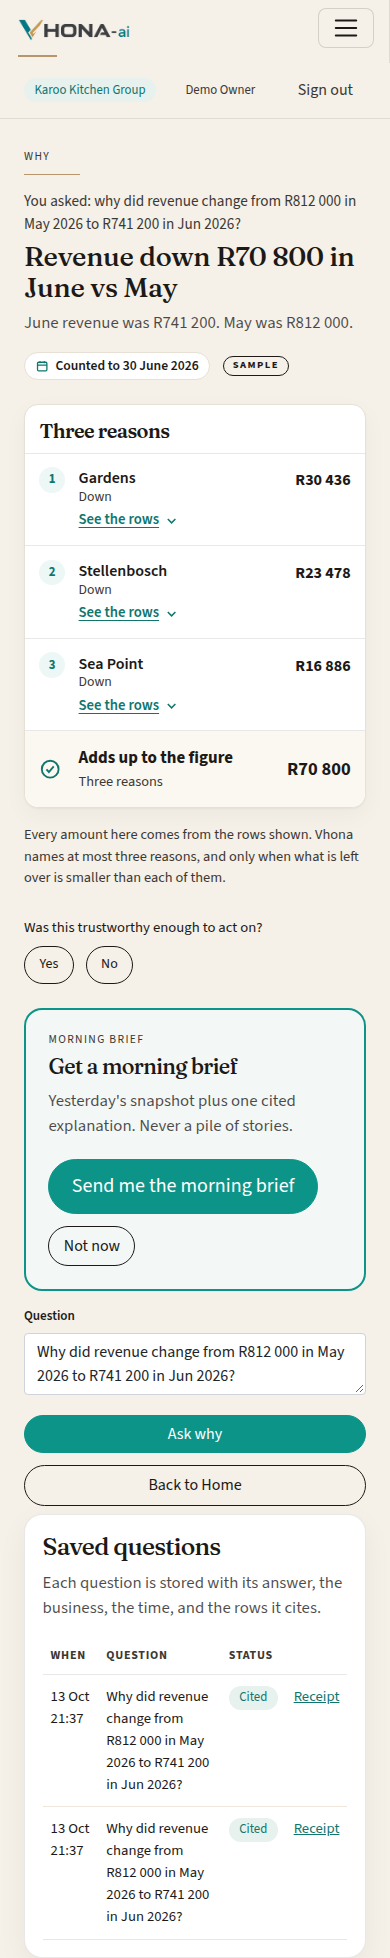
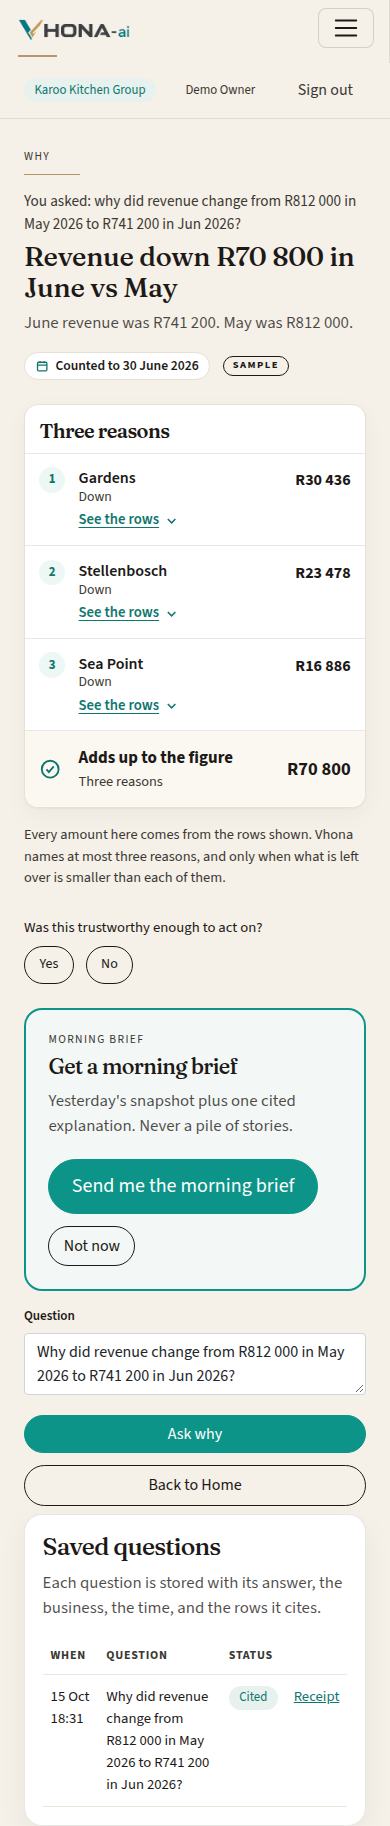
Remove the In the app screenshots from the demo pages.
Retake the Karoo phone Why shots so Saved questions lists the revenue question once.

diff --git a/docs/demos/axum-home/index.html b/docs/demos/axum-home/index.html
@@ -152,23 +152,6 @@
     #attentionBody td:nth-child(3) { width: 20%; white-space: nowrap; }
     #panel-overview .table-scroll table.data th:nth-child(4),
     #attentionBody td:nth-child(4) { width: 23%; white-space: nowrap; }
-    .in-app { margin-top: 2.75rem; }
-    .in-app h2 { font-size: clamp(1.8rem, 3vw, 2.4rem); margin: 0.55rem 0 0.4rem; }
-    .in-app .sub { color: var(--muted); max-width: 42rem; margin-bottom: 1.1rem; }
-    .in-app-grid { display: grid; gap: 1.25rem; }
-    .in-app figure { margin: 0; }
-    .in-app img {
-      display: block;
-      width: 100%;
-      height: auto;
-      border: 1px solid var(--line);
-      border-radius: 0.85rem;
-      background: var(--paper);
-    }
-    .in-app figcaption { color: var(--muted); font-size: 0.88rem; margin-top: 0.45rem; }
-    @media (min-width: 960px) {
-      .in-app-grid { grid-template-columns: repeat(3, minmax(0, 1fr)); align-items: start; }
-    }
   </style>
 </head>
 <body class="axum">
@@ -342,26 +325,6 @@
           <p class="also">Also in Demos: <a href="../karoo/">Karoo Kitchen</a></p>
         </div>
       </div>
-
-      <section class="in-app" id="in-the-app">
-        <p class="sample-label">Sample</p>
-        <h2 class="serif">In the app</h2>
-        <p class="sub">These screens are this sample loaded in Vhona. The customer names are made up. They show the books, not the unit forecast above. April is still open, so the cards compare March with February.</p>
-        <div class="in-app-grid">
-          <figure>
-            <img src="app-home.webp" width="1280" height="1201" alt="Sample Home screen for Axum Home. April 2026 is still open, so the cards compare March 2026 with February 2026. March revenue is R5 890 390." />
-            <figcaption>Home. March revenue R5&nbsp;890&nbsp;390, expenses R5&nbsp;705&nbsp;390, profit R185&nbsp;000, cash R3&nbsp;740&nbsp;000.</figcaption>
-          </figure>
-          <figure>
-            <img src="app-why.webp" width="1280" height="1450" alt="Sample Why screen for Axum revenue. April is still open, so the answer is counted to 31 March 2026. Revenue up R353 424 in March vs February. Northern Area R220 036, Eastern Cape R136 988, and Bloemfontein Pantry −R3 600. The customer names are made up." />
-            <figcaption>Why. Revenue up R353&nbsp;424 in March vs February, counted to 31 March 2026 because April is still open. Northern Area and Eastern Cape are up. Bloemfontein Pantry, a made up customer, is down R3&nbsp;600.</figcaption>
-          </figure>
-          <figure>
-            <img src="app-who.webp" width="1280" height="900" alt="Sample Who to call screen for Axum Home. Kimberley Cash Store is late, Gaborone Wholesale has stopped, and Bloemfontein Pantry has dropped. The customer names are made up." />
-            <figcaption>Who to call. Three made up customers: one late, one stopped, one dropped.</figcaption>
-          </figure>
-        </div>
-      </section>
     </div>
   </main>
 

diff --git a/docs/demos/karoo/index.html b/docs/demos/karoo/index.html
@@ -150,23 +150,6 @@
       .branch-row { grid-template-columns: 6rem 1fr 3.6rem; }
       .branch-row .yoy { display: none; }
     }
-    .in-app { margin-top: 2.75rem; }
-    .in-app h2 { font-size: clamp(1.8rem, 3vw, 2.4rem); margin: 0.55rem 0 0.4rem; }
-    .in-app .sub { margin-bottom: 1.1rem; }
-    .in-app-grid { display: grid; gap: 1.25rem; }
-    .in-app figure { margin: 0; }
-    .in-app img {
-      display: block;
-      width: 100%;
-      height: auto;
-      border: 1px solid var(--line);
-      border-radius: 0.85rem;
-      background: var(--paper);
-    }
-    .in-app figcaption { color: var(--muted); font-size: 0.88rem; margin-top: 0.45rem; }
-    @media (min-width: 960px) {
-      .in-app-grid { grid-template-columns: repeat(3, minmax(0, 1fr)); align-items: start; }
-    }
   </style>
 </head>
 <body>
@@ -488,26 +471,6 @@
           <p class="also">Also in Demos: <a href="../axum-home/">Axum Home</a></p>
         </div>
       </div>
-
-      <section class="in-app" id="in-the-app">
-        <p class="sample-label">Sample</p>
-        <h2 class="serif">In the app</h2>
-        <p class="sub">These screens are this sample loaded in Vhona. The customer names are made up. June on the Home cards is the same sample as the profit and loss above: revenue R741&nbsp;200, profit R86&nbsp;100, cash R412&nbsp;300.</p>
-        <div class="in-app-grid">
-          <figure>
-            <img src="app-home.webp" width="1280" height="1163" alt="Sample Home screen for Karoo Kitchen Group. June revenue is R741 200, expenses R655 100, profit R86 100, and cash R412 300." />
-            <figcaption>Home. June revenue R741&nbsp;200, expenses R655&nbsp;100, profit R86&nbsp;100, cash R412&nbsp;300.</figcaption>
-          </figure>
-          <figure>
-            <img src="app-why.webp" width="1280" height="1415" alt="Sample Why screen for Karoo revenue. Revenue down R70 800 in June vs May. Counted to 30 June 2026. Gardens R30 436, Stellenbosch R23 478, and Sea Point R16 886, each with See the rows." />
-            <figcaption>Why. Revenue down R70&nbsp;800 in June vs May. Gardens, Stellenbosch, and Sea Point are the reasons. Counted to 30 June 2026.</figcaption>
-          </figure>
-          <figure>
-            <img src="app-who.webp" width="1280" height="900" alt="Sample Who to call screen for Karoo Kitchen Group. Signal Hill Functions is late, Oranjezicht Boardroom has stopped, and Stellenbosch Picnic Co has dropped. The customer names are made up." />
-            <figcaption>Who to call. Three made up customers: one late, one stopped, one dropped.</figcaption>
-          </figure>
-        </div>
-      </section>
     </div>
   </main>
 

diff --git a/src/VhonaAI.Tests/WhyScreenTests.cs b/src/VhonaAI.Tests/WhyScreenTests.cs
@@ -220,9 +220,15 @@ public class WhyScreenTests
         Assert.Contains("HeldView.Unmatched", page);
         Assert.Contains("ColumnAmount", card);
         var karooPage = File.ReadAllText(Source("docs", "demos", "karoo", "index.html"));
+        var axumPage = File.ReadAllText(Source("docs", "demos", "axum-home", "index.html"));
         Assert.Contains("For awareness.", karooPage);
         Assert.Contains("R89\u00A0000", karooPage);
         Assert.DoesNotContain("Action required.", karooPage);
+        Assert.Contains("Profit and loss", karooPage);
+        Assert.DoesNotContain("In the app", karooPage + axumPage, StringComparison.Ordinal);
+        Assert.DoesNotContain("app-why.webp", karooPage + axumPage, StringComparison.Ordinal);
+        Assert.DoesNotContain("app-home.webp", karooPage + axumPage, StringComparison.Ordinal);
+        Assert.DoesNotContain("app-who.webp", karooPage + axumPage, StringComparison.Ordinal);
         Assert.Contains("With no rows behind it", File.ReadAllText(Source("src", "VhonaAI.Core", "Why", "WhyScreen.cs")));
         Assert.DoesNotContain("why-reason-rows", screen, StringComparison.Ordinal);
         Assert.DoesNotContain("@reason.Title", screen, StringComparison.Ordinal);
